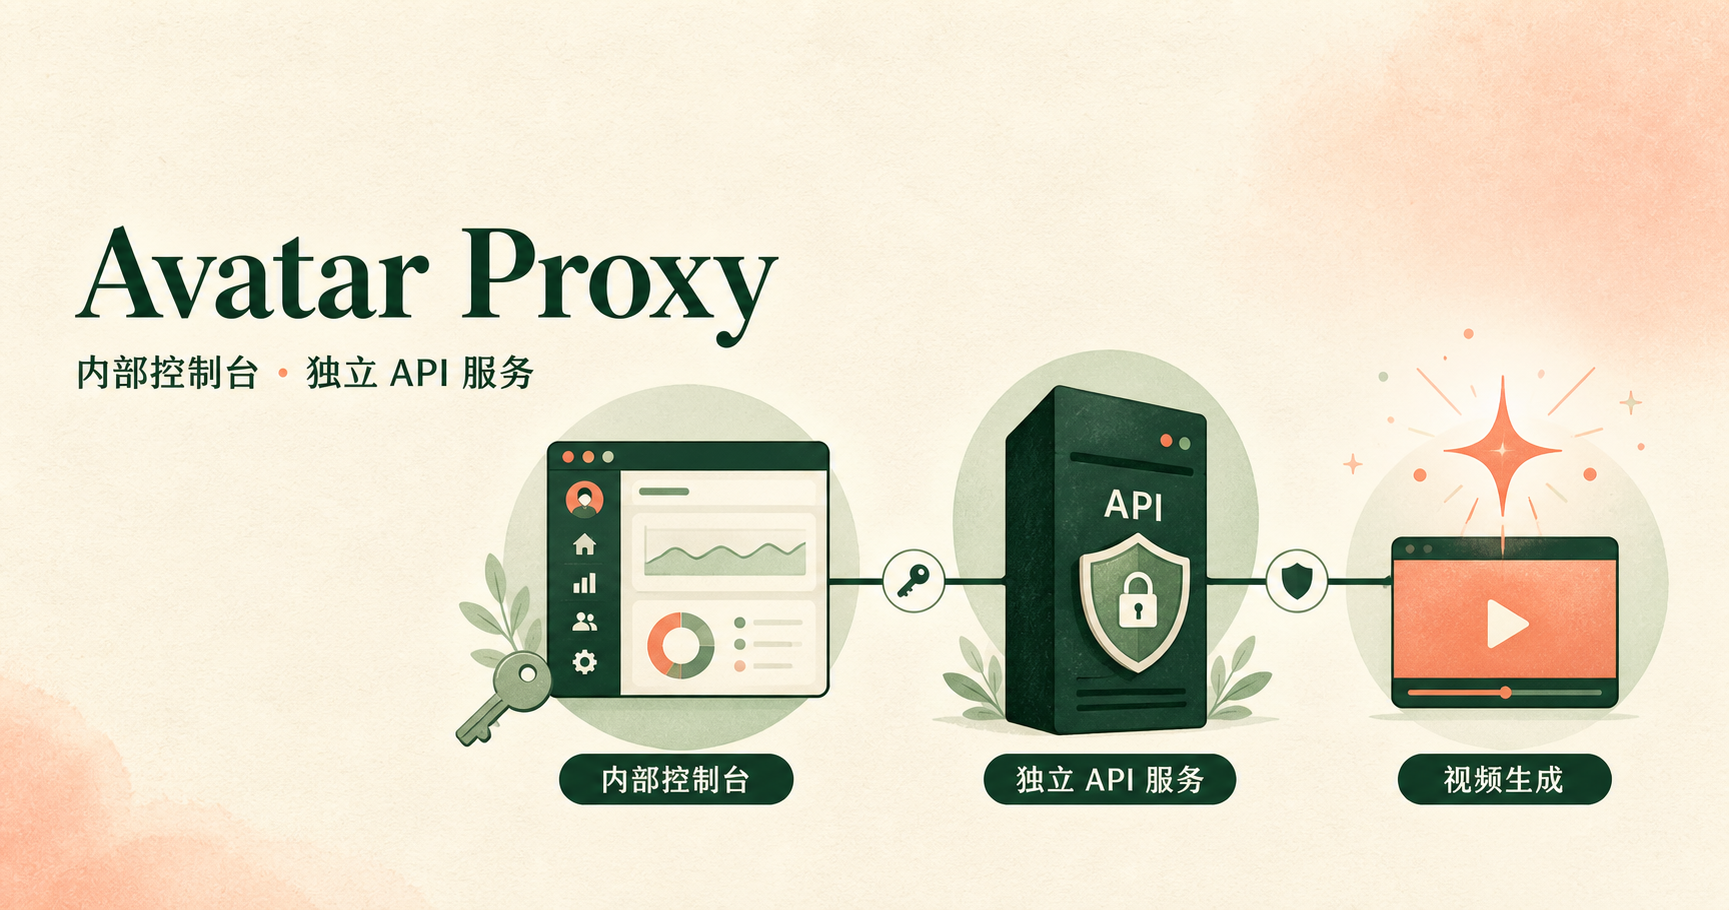
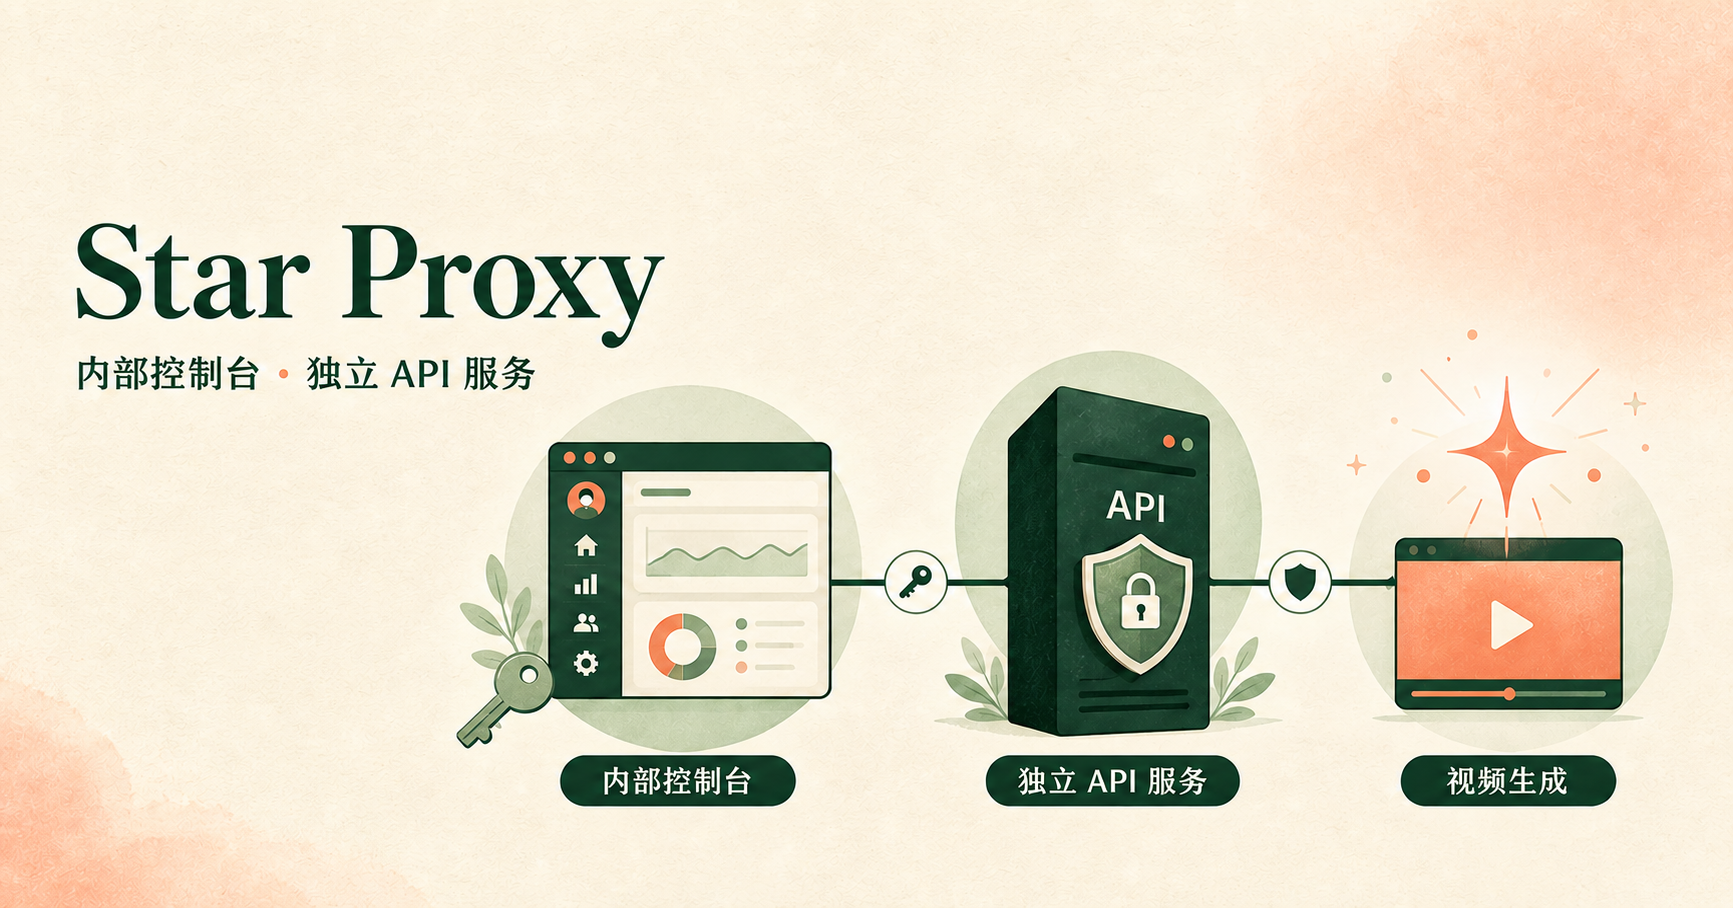
chore: rename product to Star Proxy

diff --git a/app/layout.tsx b/app/layout.tsx
@@ -6,15 +6,15 @@ const geistSans = Geist({ variable: "--font-geist-sans", subsets: ["latin"] });
 const geistMono = Geist_Mono({ variable: "--font-geist-mono", subsets: ["latin"] });
 
 export const metadata: Metadata = {
-  title: "Avatar Proxy · 内部控制台",
+  title: "Star Proxy · 内部控制台",
   description: "管理项目、业务 API Key，并验证独立部署的 Seedance 视频接口。",
   icons: { icon: "/ruichi-logo.jpg", shortcut: "/ruichi-logo.jpg", apple: "/ruichi-logo.jpg" },
   openGraph: {
-    title: "Avatar Proxy 内部控制台",
+    title: "Star Proxy 内部控制台",
     description: "项目级 API Key 与 Seedance 视频接口管理。",
     images: [{ url: "/og-console.png", width: 1200, height: 630 }],
   },
-  twitter: { card: "summary_large_image", title: "Avatar Proxy 内部控制台", images: ["/og-console.png"] },
+  twitter: { card: "summary_large_image", title: "Star Proxy 内部控制台", images: ["/og-console.png"] },
 };
 
 export default function RootLayout({ children }: Readonly<{ children: React.ReactNode }>) {

diff --git a/backend/tests/test_system_monitor.py b/backend/tests/test_system_monitor.py
@@ -415,13 +415,13 @@ def test_smtp_message_uses_tls_authentication_and_expected_recipients(
         smtp_security=security,
     )
     monitor = DiskMonitor(Database(settings.database_path), settings)
-    monitor._send_email_sync("[Avatar Proxy] 测试", "测试正文")
+    monitor._send_email_sync("[Star Proxy] 测试", "测试正文")
 
     assert events["host"] == "smtp.example.test"
     assert events["login"] == ("alerts@example.test", "mail-authorization-secret")
     assert events["from_addr"] == "alerts@example.test"
     assert events["to_addrs"] == ["ops@example.test", "owner@example.test"]
-    assert str(events["message"]["Subject"]) == "[Avatar Proxy] 测试"
+    assert str(events["message"]["Subject"]) == "[Star Proxy] 测试"
     assert events["starttls"] == (1 if security == "starttls" else 0)
     assert events["ehlo"] == (2 if security == "starttls" else 0)
 

diff --git a/backend/app/system_monitor.py b/backend/app/system_monitor.py
@@ -355,9 +355,9 @@ class DiskMonitor:
         level = str(details.get("level") or "info")
         label = LEVEL_LABELS.get(level, "通知")
         timestamp = datetime.fromtimestamp(now, UTC).astimezone().strftime("%Y-%m-%d %H:%M:%S %Z")
-        subject = f"[Avatar Proxy][{label}] 磁盘空间监控"
+        subject = f"[Star Proxy][{label}] 磁盘空间监控"
         body = (
-            "Avatar Proxy 系统监控\n\n"
+            "Star Proxy 系统监控\n\n"
             f"告警状态：{label}\n"
             f"告警内容：{message}\n"
             f"监控路径：{self.path}\n"

diff --git a/backend/app/config.py b/backend/app/config.py
@@ -30,7 +30,7 @@ class Settings(BaseSettings):
     admin_argon2_time_cost: int = Field(default=3, ge=1, le=10)
     admin_argon2_memory_cost: int = Field(default=65536, ge=8192, le=262144)
     admin_argon2_parallelism: int = Field(default=4, ge=1, le=16)
-    admin_totp_issuer: str = Field(default="Avatar Proxy", min_length=1, max_length=64)
+    admin_totp_issuer: str = Field(default="Star Proxy", min_length=1, max_length=64)
     admin_totp_encryption_key: SecretStr | None = None
     admin_totp_valid_window: int = Field(default=1, ge=0, le=2)
     admin_backup_enabled: bool = True

diff --git a/backend/app/main.py b/backend/app/main.py
@@ -73,7 +73,7 @@ def create_app(settings: Settings | None = None) -> FastAPI:
             await volcengine.aclose()
 
     app = FastAPI(
-        title="Avatar Proxy API",
+        title="Star Proxy API",
         version="1.0.0",
         description="独立部署的虚拟人像素材库与 Seedance 视频生成代理服务。",
         lifespan=lifespan,

diff --git a/deploy/volcengine/verify_minidrama_callback.py b/deploy/volcengine/verify_minidrama_callback.py
@@ -1,5 +1,5 @@
 #!/usr/bin/env python3
-"""Verify the public Avatar Proxy ingress for LocalMiniDrama WeChat callbacks."""
+"""Verify the public Star Proxy ingress for LocalMiniDrama WeChat callbacks."""
 
 from __future__ import annotations
 

diff --git a/backend/app/__init__.py b/backend/app/__init__.py
@@ -1,1 +1,1 @@
-"""Avatar Proxy backend package."""
+"""Star Proxy backend package."""

diff --git a/README.md b/README.md
@@ -1,6 +1,6 @@
-# Avatar Proxy
+# Star Proxy
 
-Avatar Proxy 是一个面向 ToB 客户的火山引擎素材与 Seedance 接入系统。系统用我方签发的业务 API Key 隔离客户项目，并提供内部管理控制台、客户工具前端和独立 FastAPI 服务。
+Star Proxy 是一个面向 ToB 客户的火山引擎素材与 Seedance 接入系统。系统用我方签发的业务 API Key 隔离客户项目，并提供内部管理控制台、客户工具前端和独立 FastAPI 服务。
 
 ## 系统组成
 
